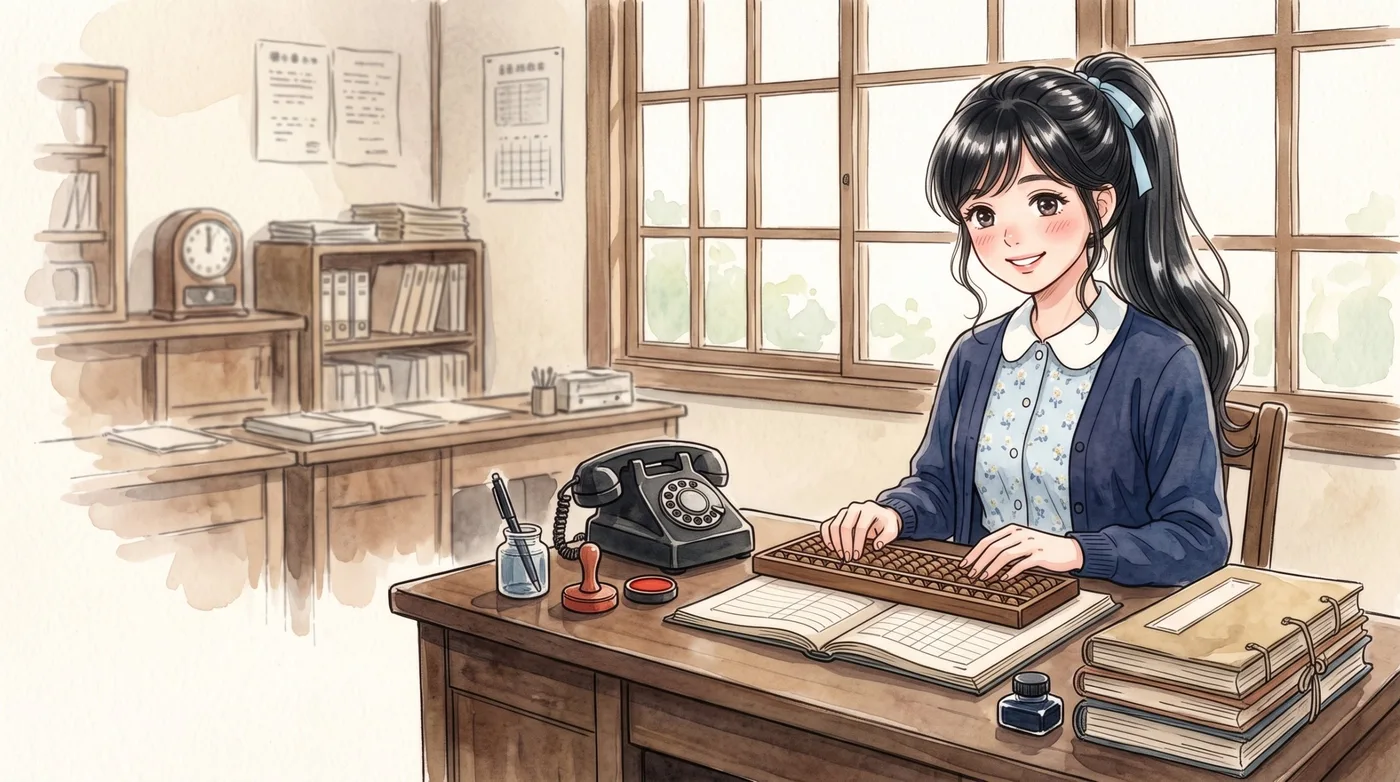
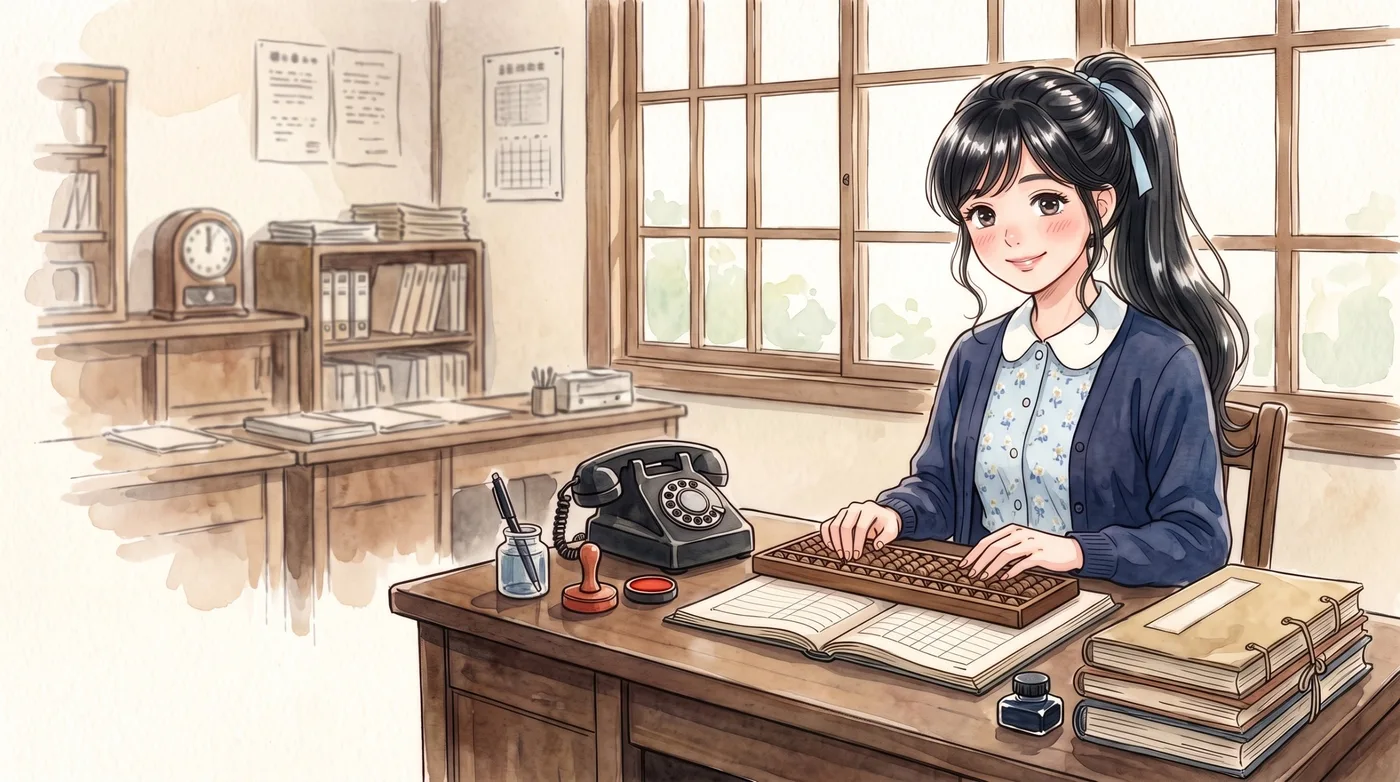
暮らしの見積所・働き方のかたち・自然災害の帳場を別館へ（栞の案内、棚を3つに）、別館トップを扉絵・吹き出し・立ち絵の並びに、栞の机の絵を差し替え、瓦版

diff --git a/src/data/rooms/work-forms.js b/src/data/rooms/work-forms.js
@@ -1,4 +1,4 @@
-// 閲覧室「働き方のかたち」（都道府県・労働 F。国勢調査・職業安定業務統計・就業構造基本調査ほか）
+// 別館「働き方のかたち」（都道府県・労働 F。国勢調査・職業安定業務統計・就業構造基本調査ほか）
 const F = '0000010106';
 const A = '0000010101';
 const pct = (a, b) => (a === null || b === null || !b ? null : (a / b) * 100);
@@ -9,18 +9,18 @@ export const WORK_FORMS = {
   path: '/work-forms/',
   description: '都道府県を選んで、自営業で働く人や、専門・事務・販売・サービス・ものづくりの仕事をする人の割合、有効求人倍率、転職した人の割合、共働きの世帯をご覧いただける窓口。',
   title: '働き方のかたち',
-  shelf: '働く・通う・暮らす',
+  annex: true,
+  shelf: '暮らしの台帳',
   imageAlt: '朝の駅前で、保育園の門に子どもを送る夫婦、シャッターを開けるパン屋の人、野菜を並べる店員、かばんを持って歩く人、荷物を積む配達の人、バス停で待つ人を描いた水彩画',
   lead: '自分で店を営む人、会社に勤める人、どんな仕事をする人が多いのか。<br />働き方のかたちを、県ごとにご覧ください。',
   intro: [
-    ['kei', 'こちらは、働き方のかたちの窓口です。自営業の人の割合、仕事の種類ごとの割合、有効求人倍率、転職した人の割合、共働きの世帯をお出しします。'],
-    ['touko', 'わたくしの町では、たいていの人が田畑かお店で、家族そろって働いているわ。いまの時代の人は、どんなふうに働いているのかしら。'],
-    ['kei', '雇われて働くか、自分で営むか。どんな仕事をするか。県ごとにくらべられます。正社員やパートの割合は「働き方の窓口」でご覧いただけます。'],
+    ['shiori', '近ごろは「金の卵」と呼ばれて、中学を出たばかりの子たちが集団就職で町へ出てくるんです。こちらは働き方のかたちの帳場で、自営業の人の割合、仕事の種類ごとの割合、有効求人倍率、転職した人の割合、共働きの世帯をお出しします。'],
+    ['shiori', '正社員やパートの割合は、同じ別館の「働き方の帳場」でご覧いただけますよ。'],
   ],
-  touko: [
-    'わたくしの町では、お店も田畑も、家族みんなで働いているわ。',
-    '事務の仕事をする女の人も、少しずつ増えているのよ。',
-    '会社に勤める人は、まだ少ないのよ。',
+  shiori: [
+    '「自営業」は、自分でお店や田畑などを営んでいる人の欄なんです。',
+    '有効求人倍率は、仕事を探している人ひとりに、求人がいくつあるかを表す数なんですよ。',
+    '共働きの欄は、夫婦のいない世帯も分母に入っているので、気をつけて読んでくださいね。',
   ],
   notes: [
     '自営業・仕事の種類・共働きは国勢調査（5年ごと）、有効求人倍率は厚生労働省の職業安定業務統計、転職した人の割合は就業構造基本調査（5年ごと）によるものです（e-Stat 社会・人口統計体系）。',

diff --git a/src/data/rooms/disaster.js b/src/data/rooms/disaster.js
@@ -1,4 +1,4 @@
-// 閲覧室「自然災害の帳場」（都道府県・安全 K51xx）
+// 別館「自然災害の帳場」（都道府県・安全 K51xx）
 // 年ごとの値。大きな災害のあった年に跳ねるので、1年だけで多い少ないを言わない。
 const T = '0000010111';
 export const DISASTER = {
@@ -8,18 +8,18 @@ export const DISASTER = {
   path: '/disaster/',
   description: '都道府県を選んで、自然災害の被害額・浸水した建物・被害を受けた世帯と人の数を、年ごとの移りかわりでご覧いただける窓口。',
   title: '自然災害の帳場',
-  shelf: '空と大地',
+  annex: true,
+  shelf: '暮らしの台帳',
   imageAlt: '雨上がりの光が差す川沿いの道で、水かさの引いた川を見守る住民たちの水彩画',
   lead: '風水害や地震で、どれだけの家と人が被害を受けたか。<br />あなたの県の記録を、年ごとにご覧ください。',
   intro: [
-    ['kei', 'こちらは自然災害の帳場です。被害の額、水につかった建物、被害を受けた世帯と人の数を、年ごとに引けます。'],
-    ['touko', '年によって、ずいぶん違いそうね。'],
-    ['kei', 'はい。大きな災害のあった年には、数字が大きく跳ねます。1年だけを見るより、移りかわりで見てください。'],
+    ['shiori', 'うちの係にも、台風のあとは被害の報告書がどっさり届くんです。こちらは自然災害の帳場で、被害の額、水につかった建物、被害を受けた世帯と人の数を、年ごとにお出しします。'],
+    ['shiori', '大きな災害のあった年には、数字が大きく跳ねるんです。1年だけを見るより、移りかわりで見てくださいね。'],
   ],
-  touko: [
-    '水の害まで、きちんと書き留めてあるのね。',
-    '年ごとに並べると、大きな災害のあった年がよく分かるわ。',
-    'こういう記録が、次の備えになるのでしょうね。',
+  shiori: [
+    '「床上浸水」は、家の床より上まで水が来た建物の欄なんです。',
+    '被害額は、建物や田畑、道路などの被害を合わせた額なんですよ。',
+    '災害のなかった年は、帳簿では「0」として数えています。',
   ],
   notes: [
     '消防庁の調べによる、その年に起きた自然災害（風水害・地震・雪害など）の被害の値です。',

diff --git a/src/data/news.js b/src/data/news.js
@@ -9,6 +9,18 @@
 export const news = [
  {
     date: '2026-10-17',
+    title: '別館の名前を「暮らしの台帳」に改めました',
+    text: 'お金の出入りだけでなく、働き方や人の出入り、自然災害の被害まで綴じるようになったので、別館「町の出納帳」を「暮らしの台帳」と改めました。案内は、これまでどおり昭和の統計係の栞です。',
+    href: '/annex/',
+  },
+ {
+    date: '2026-10-17',
+    title: '「暮らしの見積所」「働き方のかたち」「自然災害の帳場」を別館へ移しました',
+    text: '給与や家賃、仕事の見つけやすさ、災害の被害といった数字は、別館「町の出納帳」で栞がご案内します。別館の棚は「暮らしと稼ぎ」「働く」「人の動きと災害」に分けて、15の窓口になりました。',
+    href: '/annex/',
+  },
+ {
+    date: '2026-10-17',
     title: '閲覧室に「暮らしのまわりの環境」「運転免許とクルマの保険」を開きました',
     text: '公害の苦情の件数、ばい煙や粉じんを出す施設、排水の届け出がある事業場、温室効果ガスの排出量を県ごとに、また普通・準中型・中型・大型の運転免許を持つ人の数、任意の自動車保険の普及率、歩道橋・地下道の数をご覧いただけます。「子どもと高齢者の施設」には、訪問介護・ショートステイなど介護サービスの事業所と、デイサービスの利用者を足しました。',
     href: '/dashboard/',

diff --git a/src/data/page-names.js b/src/data/page-names.js
@@ -9,10 +9,10 @@ export const ROOM_NAMES = {
   '/education/': '閲覧室　学びの登記所',
   '/education-budget/': '閲覧室　教育の帳場',
   '/ict/': '閲覧室　情報化の帳場',
-  '/living/': '閲覧室　暮らしの見積所',
+  '/living/': '別館　暮らしの見積所',
   '/prices/': '閲覧室　物価の帳場',
   '/sky/': '閲覧室　空の帳場',
-  '/disaster/': '閲覧室　自然災害の帳場',
+  '/disaster/': '別館　自然災害の帳場',
   '/town-forest/': '閲覧室　わが町の森と土地',
   '/nature/': '閲覧室　自然公園と植生',
   '/town-work/': '閲覧室　わが町の仕事',
@@ -35,7 +35,7 @@ export const ROOM_NAMES = {
   '/colleges/': '閲覧室　大学と専門学校',
   '/care-places/': '閲覧室　子どもと高齢者の施設',
   '/town-commerce/': '閲覧室　お店と商い',
-  '/work-forms/': '閲覧室　働き方のかたち',
+  '/work-forms/': '別館　働き方のかたち',
   '/home-features/': '閲覧室　家のつくりと設備',
   '/town-households/': '閲覧室　わが町の世帯のかたち',
   '/home-space/': '閲覧室　住まいの広さ',

diff --git a/src/data/rooms/work-style.js b/src/data/rooms/work-style.js
@@ -17,7 +17,7 @@ export const WORK_STYLE = {
   description: '都道府県を選んで、完全失業率・働いている人の割合・正社員とパートや派遣の割合・65歳以上で働く人の割合、ハローワークで仕事を探した人と就職した人の割合、高校新卒の求人倍率を、全国の順位と移りかわりでご覧いただける窓口。',
   title: '働き方の帳場',
   imageAlt: '朝の町の交差点で、出勤する勤め人、店の準備をする人、荷を積む若者、畑へ向かう人、登校を見守る警備員が行き交う水彩画',
-  shelf: '町の出納帳',
+  shelf: '暮らしの台帳',
   lead: '仕事を探している人は、どれだけいるのか。<br />正社員、パート、派遣。県ごとの働き方の内訳をご覧ください。',
   intro: [
     ['shiori', 'わたしたちBGも、毎朝満員の電車で役所へ通っているんですよ。こちらは働き方の帳場で、仕事についている人と探している人の割合、それに雇われ方の内訳をお出しします。'],

diff --git a/src/data/rooms/town-spending.js b/src/data/rooms/town-spending.js
@@ -11,7 +11,7 @@ export const TOWN_SPENDING = {
   description: '市区町村を選んで、町の1年間の支出（歳出決算）の大きさと、福祉・衛生・土木・消防・農林水産・商工など、使いみちごとの割合をご覧いただける窓口。',
   title: '町のお金の使いみち',
   imageAlt: '川に新しい橋をかける工事、消防署と消防車、診療所、子どもの遊ぶ公園、田んぼと漁港が広がる小さな町の鳥瞰図',
-  shelf: '町の出納帳',
+  shelf: '暮らしの台帳',
   lead: '町は1年に、どれだけのお金を、何に使っているのか。<br />市区町村の歳出を、使いみちごとの割合でご覧ください。',
   intro: [
     ['shiori', 'うちの市でも、道路の舗装や橋の架け替えの伝票が、毎日のように回ってくるんです。こちらは町のお金の使いみちの帳場で、市区町村が1年に使ったお金（歳出決算）と、その使いみちの割合をお出しします。'],

diff --git a/src/data/rooms/pref-spending.js b/src/data/rooms/pref-spending.js
@@ -11,7 +11,7 @@ export const PREF_SPENDING = {
   description: '都道府県を選んで、県の1年間の支出（歳出決算）の大きさと、福祉・教育・土木・農林水産など、使いみちごとの割合をご覧いただける窓口。',
   title: '県のお金の使いみち',
   imageAlt: '山あいのダムから河口の堤防工事まで、県庁・高校・大きな病院・高齢者の施設・港が広がるひとつの県の鳥瞰図',
-  shelf: '町の出納帳',
+  shelf: '暮らしの台帳',
   lead: '県は1年に、どれだけのお金を、何に使っているのか。<br />都道府県の歳出を、使いみちごとの割合でご覧ください。',
   intro: [
     ['shiori', 'わたしの係では、出ていくお金を「歳出」と呼んで、目的ごとに欄を分けてつけているんです。こちらは県のお金の使いみちの帳場で、都道府県が1年に使ったお金（歳出決算）と、その使いみちの割合をお出しします。'],

diff --git a/src/data/rooms/land-price.js b/src/data/rooms/land-price.js
@@ -8,7 +8,7 @@ export const LAND_PRICE = {
   description: '都道府県を選んで、住宅地・商業地・工業地の1平方メートルあたりの土地の値段（都道府県地価調査の平均価格）を、全国の順位と移りかわりでご覧いただける窓口。',
   title: '土地の値段',
   imageAlt: '測量中の住宅地、駅前の商業地、川向こうの工場地帯を手前から奥へ見渡す町の鳥瞰図の水彩画',
-  shelf: '町の出納帳',
+  shelf: '暮らしの台帳',
   lead: '家の建つ土地、お店の並ぶ土地、工場の土地。<br />1平方メートルあたり、いくらで取り引きされる目安なのかを、都道府県ごとにご覧ください。',
   intro: [
     ['shiori', 'こちらは土地の値段の帳場です。わたしの帳場では、土地は坪で数えるのが当たり前なんですけれど、ここでは住宅地・商業地・工業地の1平方メートルあたりの値段をお出しします。'],

diff --git a/src/data/rooms/pref-economy.js b/src/data/rooms/pref-economy.js
@@ -9,7 +9,7 @@ export const PREF_ECONOMY = {
   description: '都道府県を選んで、県内総生産・県民所得・1人当たり県民所得と、その内訳（雇用者報酬・企業所得・財産所得）、産業の割合をご覧いただける窓口。',
   title: '県のふところ',
   imageAlt: '田畑と果樹園、川沿いの工場と物流倉庫、駅前のビル街、クレーンの並ぶ港までをひとつながりに見渡す県の鳥瞰図の水彩画',
-  shelf: '町の出納帳',
+  shelf: '暮らしの台帳',
   lead: 'その県で1年に生み出されたものの値打ちは、どれだけか。<br />県民所得とその内訳を、都道府県ごとにご覧ください。',
   intro: [
     ['shiori', '近ごろは「所得倍増」って、どこへ行っても聞くんです。こちらは県のふところの帳場で、県のなかで1年に生み出された値打ちと、それが所得としてどう分かれるかをお出しします。'],

diff --git a/src/data/rooms/pref-revenue.js b/src/data/rooms/pref-revenue.js
@@ -10,7 +10,7 @@ export const PREF_REVENUE = {
   description: '都道府県を選んで、1年間の収入（歳入決算）が、税・地方交付税・国や県からのお金・借り入れなど、どこから入ってきたかの割合をご覧いただける窓口。',
   title: '県のお金の入り口',
   imageAlt: '県庁の出納室の机に帳簿・算盤・天秤ばかり・硬貨の小箱が並び、窓の外に川沿いの街並みと山',
-  shelf: '町の出納帳',
+  shelf: '暮らしの台帳',
   lead: 'お役所のお金は、どこから入ってくるのか。<br />1年間の歳入を、入り口ごとの割合でご覧ください。',
   intro: [
     ['shiori', 'うちの市役所では、月末になると課の全員で算盤をはじいて、歳入の帳尻を合わせるんです。こちらは県のお金の入り口の帳場で、1年に入ってきたお金（歳入決算）がどこから来たかの割合をお出しします。'],

diff --git a/src/data/rooms/town-revenue.js b/src/data/rooms/town-revenue.js
@@ -10,7 +10,7 @@ export const TOWN_REVENUE = {
   description: '市区町村を選んで、1年間の収入（歳入決算）が、税・地方交付税・国や県からのお金・借り入れなど、どこから入ってきたかの割合をご覧いただける窓口。',
   title: '町のお金の入り口',
   imageAlt: '木造の町役場の窓口で住民が書類を出し、奥で職員が帳簿をつけている。戸口の外に商店の並ぶ通りと田畑',
-  shelf: '町の出納帳',
+  shelf: '暮らしの台帳',
   lead: 'お役所のお金は、どこから入ってくるのか。<br />1年間の歳入を、入り口ごとの割合でご覧ください。',
   intro: [
     ['shiori', 'うちの市の窓口にも、毎日税を納めに来る人が並ぶんですよ。こちらは町のお金の入り口の帳場で、1年に入ってきたお金（歳入決算）がどこから来たかの割合をお出しします。'],

diff --git a/src/data/rooms/household.js b/src/data/rooms/household.js
@@ -8,7 +8,7 @@ export const HOUSEHOLD = {
   description: '都道府県（県庁所在市）を選んで、1か月の収入・可処分所得・消費支出と、食料・住居・光熱・教育・教養娯楽などへの支出をご覧いただける窓口。',
   title: '家計の帳場',
   imageAlt: '夜の台所のテーブルで、電卓を手に家計簿をつける母親と、のぞき込む父親の水彩画',
-  shelf: '町の出納帳',
+  shelf: '暮らしの台帳',
   lead: '世帯は、1か月にいくら受け取り、何にいくら使っているのか。<br />県庁所在市の家計簿を、県ごとにご覧ください。',
   intro: [
     ['shiori', 'こちらは家計の帳場です。家計調査の帳票なら、わたしの係にも回ってきますよ。世帯の1か月の収入と支出をお出ししますね。'],
